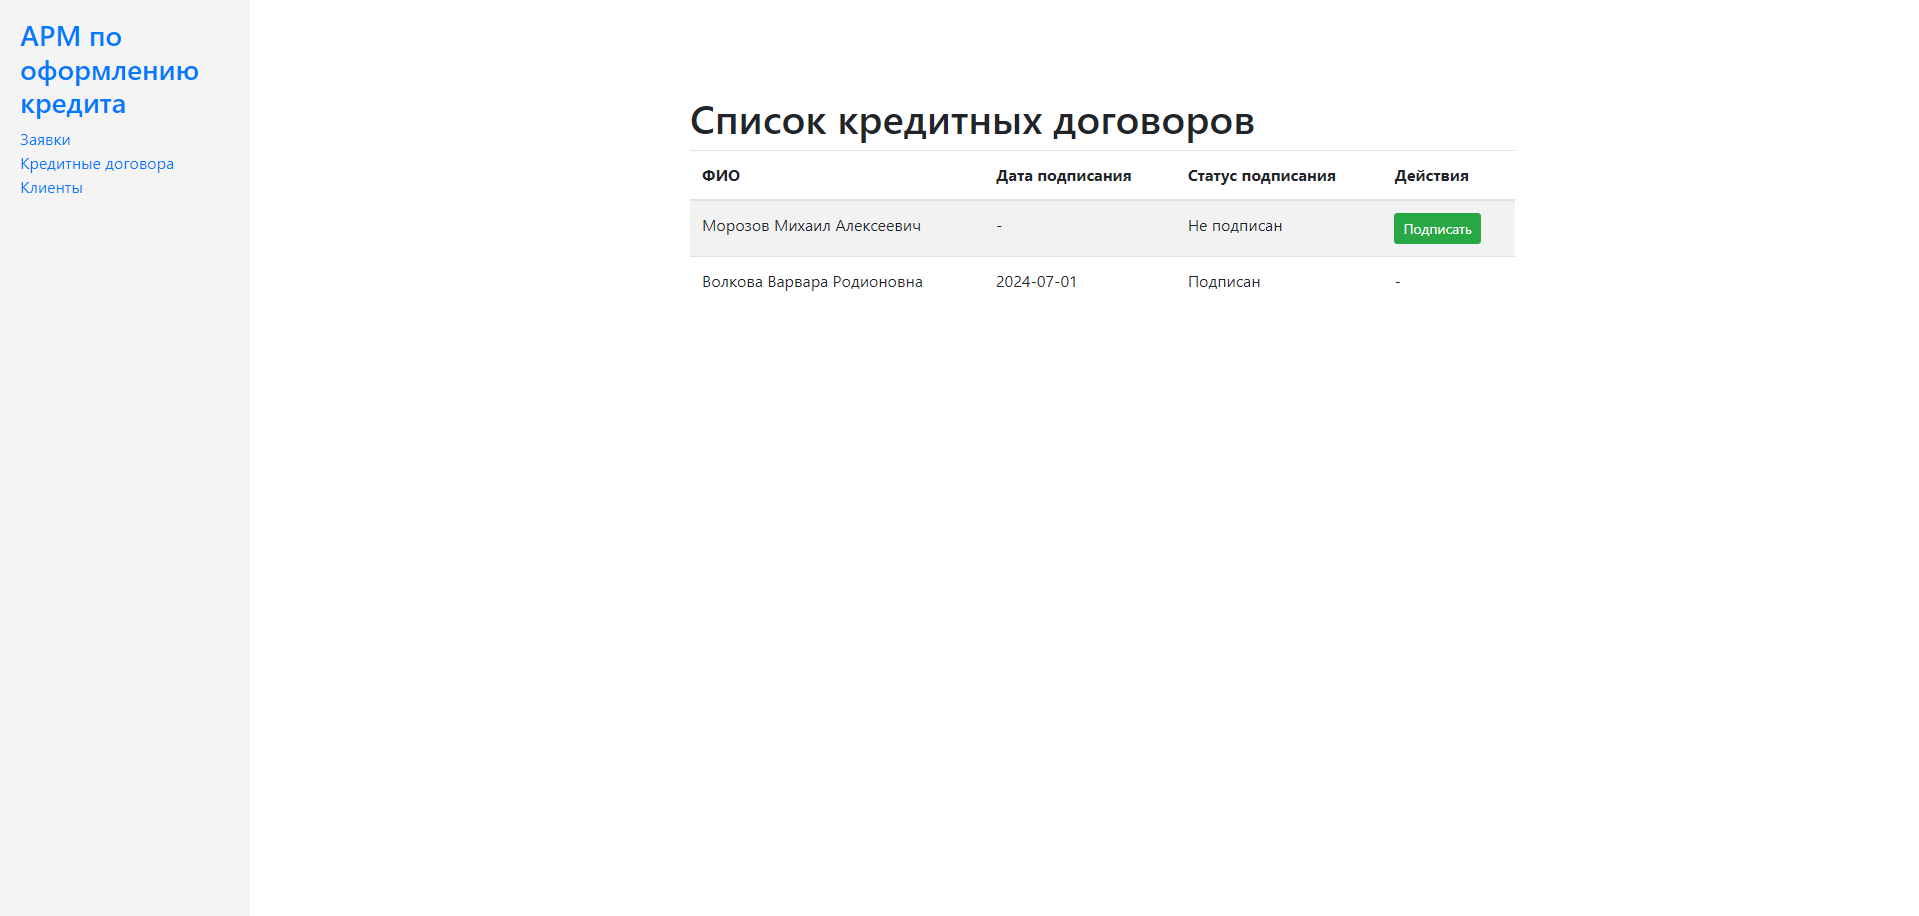
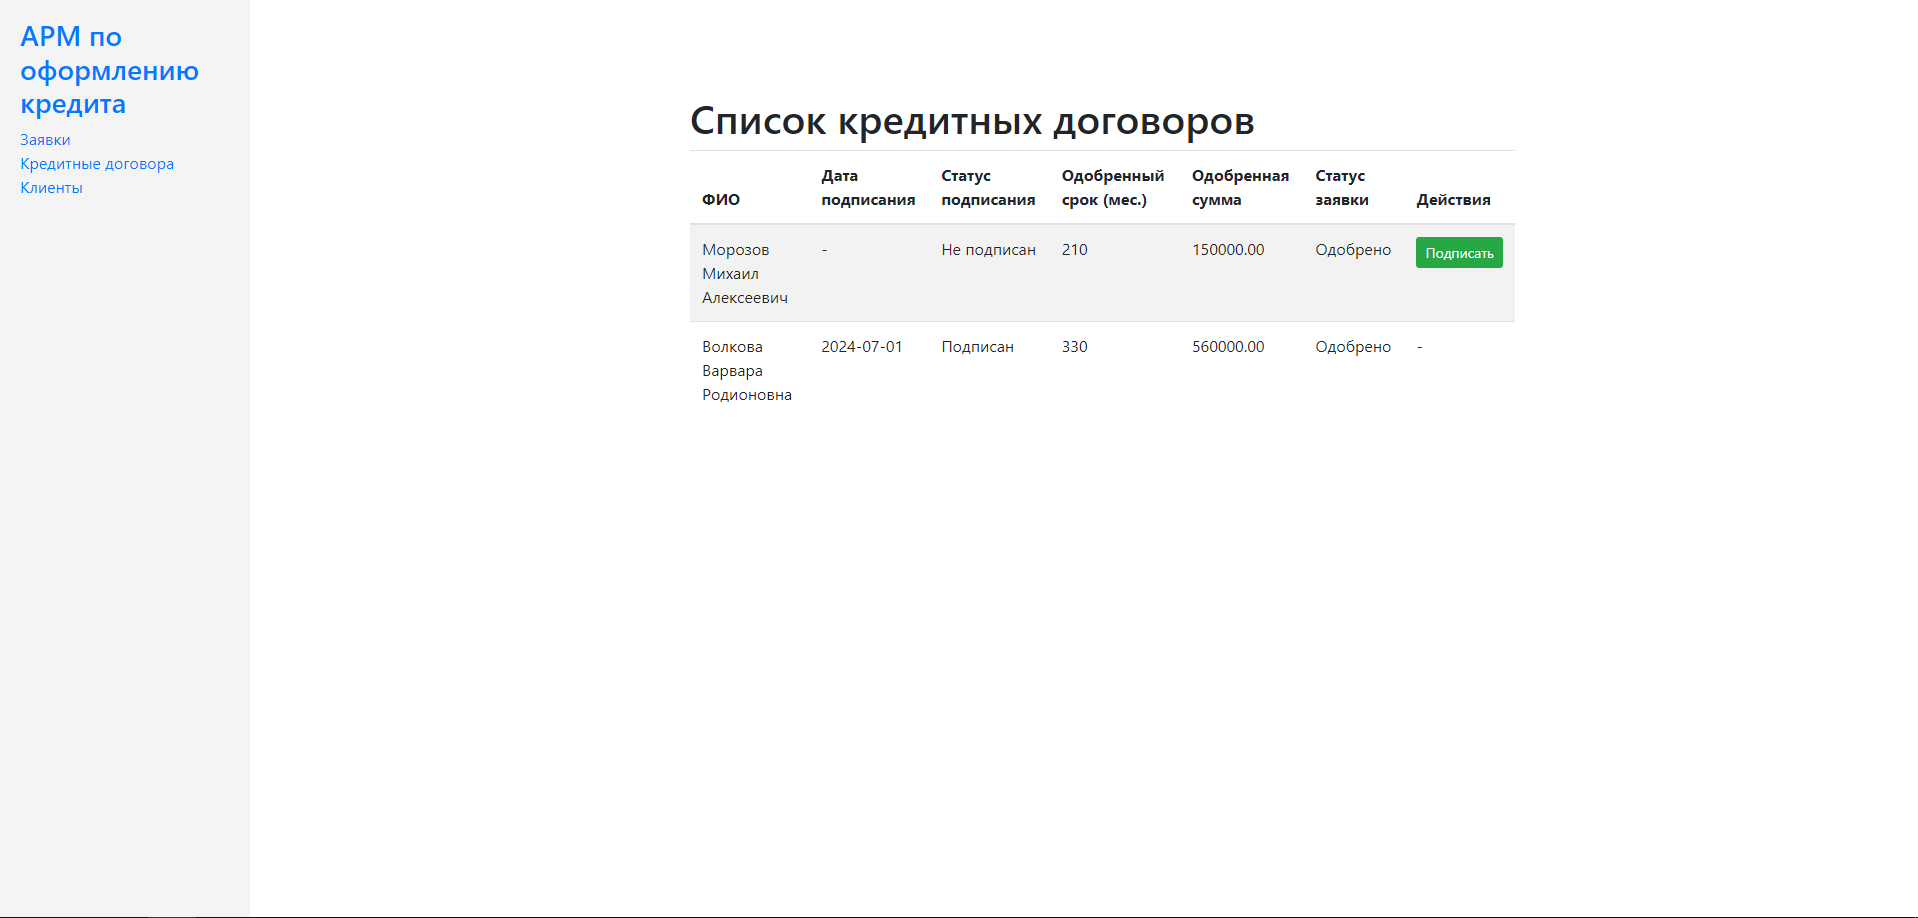
add README.md

diff --git a/src/main/resources/templates/contract/index.html b/src/main/resources/templates/contract/index.html
@@ -21,6 +21,9 @@
                             <th>ФИО</th>
                             <th>Дата подписания</th>
                             <th>Статус подписания</th>
+                            <th>Одобренный срок (мес.)</th>
+                            <th>Одобренная сумма</th>
+                            <th>Статус заявки</th>
                             <th>Действия</th>
                         </tr>
                         </thead>
@@ -29,6 +32,9 @@
                             <td th:text="${contract.getFio()}"></td>
                             <td th:text="${contract.getSignedDate() == null ? '-' : contract.getSignedDate()}"></td>
                             <td th:text="${contract.signedStatus ? 'Подписан' : 'Не подписан'}"></td>
+                            <td th:text="${contract.term}"></td>
+                            <td th:text="${contract.amount}"></td>
+                            <td th:text="${contract.status ? 'Одобрено' : 'Не одобрено'}"></td>
                             <td>
                                 <div th:if="${!contract.getSignedStatus()}">
                                     <a th:href="@{/contract/{id}/sign(id=${contract.id})}"

diff --git a/src/main/java/com/assac453/automatedworkstation/service/impl/ContractServiceImpl.java b/src/main/java/com/assac453/automatedworkstation/service/impl/ContractServiceImpl.java
@@ -88,6 +88,9 @@ public class ContractServiceImpl implements ContractService {
                             )
                             .signedDate(contract.getSignedDate())
                             .signedStatus(contract.getSignedStatus())
+                            .term(contract.getRequest().getApprovedTerm())
+                            .amount(contract.getRequest().getApprovedAmount())
+                            .status(contract.getRequest().getApprovedStatus())
                             .build()
             );
         }

diff --git a/src/main/java/com/assac453/automatedworkstation/dto/response/ContractClientDtoResponse.java b/src/main/java/com/assac453/automatedworkstation/dto/response/ContractClientDtoResponse.java
@@ -5,6 +5,7 @@ import lombok.Builder;
 import lombok.Data;
 import lombok.NoArgsConstructor;
 
+import java.math.BigDecimal;
 import java.util.Date;
 
 @Data
@@ -16,4 +17,7 @@ public class ContractClientDtoResponse {
     private String fio;
     private Date signedDate;
     private Boolean signedStatus;
+    private Boolean status;
+    private Integer term;
+    private BigDecimal amount;
 }

diff --git a/src/main/java/com/assac453/automatedworkstation/controller/mvc/ContractControllerMvc.java b/src/main/java/com/assac453/automatedworkstation/controller/mvc/ContractControllerMvc.java
@@ -18,6 +18,7 @@ public class ContractControllerMvc {
 
     @GetMapping
     public String index(Model model) {
+        // добавить информацию из заявки
         model.addAttribute("contracts", contractService.findAllContractClient());
         return "contract/index";
     }

diff --git a/README.md b/README.md
@@ -1,0 +1,105 @@
+# АРМ менеджера по оформлению кредита
+
+## Обзор
+
+Это приложение предназначено для автоматизации рабочего места менеджера по оформлению кредита с использованием
+следующего стека технологий: Spring MVC, Hibernate (без использования Spring Data) и PostgreSQL.
+
+## Общий процесс
+
+1. **Оформление заявки на кредит**
+2. **Принятие решения по кредиту**
+3. **Подписание кредитного договора**
+
+### 1. Оформление заявки на кредит
+
+Пользователь создает заявку на кредит, содержащую следующую информацию о клиенте:
+
+- Фамилия, имя, отчество
+- Паспортные данные
+- Семейное положение
+- Адрес прописки
+- Контактный телефон
+- Сведения о занятости (период работы, должность, название организации)
+- Сумма желаемого кредита
+
+### 2. Принятие решения по кредиту
+
+После оформления заявки на кредит система случайным образом принимает решение о кредите. Решение состоит из статуса (
+одобрен/не одобрен), предлагаемого срока в днях (1-12 месяцев), одобренной суммы кредита.
+
+### 3. Подписание кредитного договора
+
+После одобрения кредита система должна позволить подписать кредитный договор. Кредитный договор должен содержать
+информацию из заявки, дату подписания, а также статус подписи (подписан/не подписан).
+
+## Дополнительный функционал
+
+1. Вывод списка всех клиентов
+2. Поиск клиента по телефону, ФИО и паспортным данным
+3. Вывод списка заявок со статусом одобрения
+4. Вывод списка всех подписанных кредитных договоров со статусом подписания
+
+## Структура проекта и настройка
+
+### Схема БД
+
+![Database Schema](img/db.png)
+
+### Основной функционал
+
+1. **Вывод списка всех клиентов**
+2. **Поиск клиента по телефону, ФИО и паспортным данным**
+3. **Вывод списка заявок со статусом одобрения**
+4. **Вывод списка всех подписанных кредитных договоров со статусом подписания**
+
+#### Главная страница
+
+![Главная страница](img/home.png)
+
+#### Форма оформления заявки на кредит
+
+![Форма оформления заявки на кредит](img/request.png)
+
+#### Результаты оформления заявки
+
+##### Заявка не одобрена
+
+![Заявка не одобрена](img/not_allowed.png)
+
+##### Заявка одобрена
+
+![Заявка одобрена](img/allowed.png)
+
+#### Список всех заявок
+
+![Список всех заявок](img/requests.png)
+
+#### Список всех договоров с возможностью подписания
+
+![Список всех договоров с возможностью подписания](img/contracts.png)
+
+#### Список клиентов
+
+![Список клиентов](img/clients_list.png)
+
+#### Поиск клиента по ФИО
+
+![Поиск клиента по ФИО](img/searchByFio.png)
+
+#### Поиск клиента по паспортным данным
+
+![Поиск клиента по паспортным данным](img/searchByPassport.png)
+
+#### Поиск клиента по номеру телефона
+
+![Поиск клиента по номеру телефона](img/searchByContactPhone.png)
+
+## Используемые технологии
+
+<img src="https://www.clipartmax.com/png/full/354-3543373_spring-framework-logo-svg-png-download-java-spring.png" width="80" alt="Spring">
+<img src="https://www.javatpoint.com/images/hibernate/hibernate2.png" width="70" alt="Hibernate ORM"> 
+<img src="https://uxwing.com/wp-content/themes/uxwing/download/brands-and-social-media/postgresql-icon.png" width="60" alt="PostgreSQL">
+<img src="https://maven.apache.org/images/maven-logo-black-on-white.png" width="120" alt="Maven Apache">
+<img src="https://www.thymeleaf.org/images/thymeleaf.png" width="70" alt="Thymeleaf">
+<img src="https://getbootstrap.com/docs/5.3/assets/brand/bootstrap-logo-shadow.png" width="90" alt="Bootstrap">
